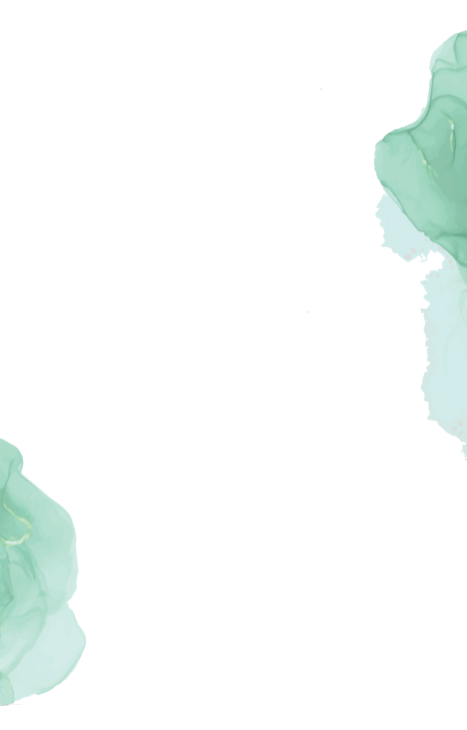
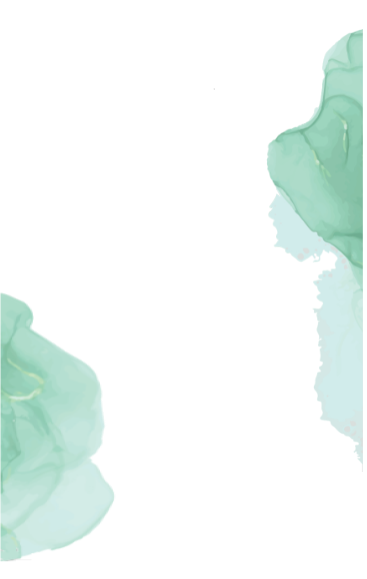
ultima actualizacion

diff --git a/style.css b/style.css
@@ -1,6 +1,6 @@
 :root {
     --color-principal:#F7F7F7;
-    --color-secundario:#BBE1D2;
+    --color-secundario:#8FC6AE;
     --color-terciario:#c0d6c0;
     --font-principal:'Sacramento', cursive;
     --font-secundaria:'Nunito', sans-serif;
@@ -42,7 +42,7 @@ header {
     background-position: center;
     background-size: cover;
     text-align: center;
-    padding: 140px 80px ;
+    padding: 140px 90px ;
     animation-name: texto;
     animation-duration: 5s;
 }
@@ -66,16 +66,16 @@ header {
     font-size: 16px;
 }
 .boton {
-   border: 1px solid var(--color-secundario);
-   background-color: var(--color-secundario);
+   border: 1px solid var(--color-terciario);
+   background-color: var(--color-terciario);
    color: var(--color-principal);
    padding: 10px 30PX;
    text-decoration: none;
 }
 .boton:hover {
-    color: var(--color-secundario);
+    color: var(--color-terciario);
     background-color: var(--color-principal);
-    border: 1px solid var(--color-secundario);
+    border: 1px solid var(--color-terciario);
     padding: 10px 30PX;
     text-align: center;
     text-decoration: none;
@@ -90,7 +90,7 @@ h1 {
 }
 
 header p {
-    color: var(--color-terciario);
+    color: var(--color-secundario);
     font-family: var(--font-secundaria);
 }
 
@@ -138,7 +138,7 @@ header p {
     text-align: center;
     padding: 40px; 
     background-image: url(icon/backf.png);
-    background-position: top;
+    background-position: center;
     background-size: cover;
     background-repeat: no-repeat;
 }
@@ -232,9 +232,9 @@ header p {
     width: 100%;
     height: 80vh;
     background-color: var(--color-secundario);
-    background-image: url(background/background3.png);
-    background-position: bottom;
-    background-size: contain;
+    background-image: url(icon/bgflores.png);
+    background-position: center;
+    background-size: cover;
     background-repeat: no-repeat;
 }
 
@@ -337,7 +337,7 @@ footer {
     width: 100%;
     height: auto;
     margin: 0;
-    background-color: var(--color-terciario);
+    background-color: var(--color-secundario);
     color: var(--color-principal);
     padding: 40px;
 }
@@ -369,6 +369,11 @@ footer .contenido{
     background-position: top;
     background-size: cover;
     background-repeat: no-repeat;
+    
+
+}
+.lovestory .poema {
+    font-size: 20px;
 }
 .lovestory .lovestory-text2 {
     padding: 60px 40px;
@@ -399,6 +404,12 @@ footer .contenido{
         flex-direction: column;
 
     }
+    .regalos {
+        background-image: url(./icon/Copiadebgflores.png);
+        background-size:cover;
+
+    }
+    
     
     
 }

diff --git a/index.html b/index.html
@@ -124,7 +124,7 @@
         
       <div class="regalos">
          <div class="regalos-card">
-          <img class="icono" src="icon/icons8-tarjeta-de-regalo-100.png" alt="iconocard">
+          <img class="icono" src="icon/icons8-tarjeta-de-regalo-100.svg" alt="iconocard">
           <p>Tu presencia es lo mas importante pero si deseas hacernos un regalo ayudanos con la luna de miel.</p>
           <br>
           <p>CBU</p>
@@ -136,7 +136,7 @@
               <button id="copiador"><svg xmlns="http://www.w3.org/2000/svg" x="0px" y="0px"
                 width="24" height="24"
                 viewBox="0 0 172 172"
-                style=" fill:#000000;"><g fill="none" fill-rule="nonzero" stroke="none" stroke-width="1" stroke-linecap="butt" stroke-linejoin="miter" stroke-miterlimit="10" stroke-dasharray="" stroke-dashoffset="0" font-family="none" font-weight="none" font-size="none" text-anchor="none" style="mix-blend-mode: normal"><path d="M0,172v-172h172v172z" fill="none"></path><g fill="#78B399"><path d="M28.66667,14.33333c-7.91917,0 -14.33333,6.41417 -14.33333,14.33333v100.33333h14.33333v-100.33333h100.33333v-14.33333zM57.33333,43c-7.91917,0 -14.33333,6.41417 -14.33333,14.33333v86c0,7.91917 6.41417,14.33333 14.33333,14.33333h86c7.91917,0 14.33333,-6.41417 14.33333,-14.33333v-86c0,-7.91917 -6.41417,-14.33333 -14.33333,-14.33333zM57.33333,57.33333h86v86h-86z"></path></g></g></svg></button>
+                style=" fill:#000000;"><g fill="none" fill-rule="nonzero" stroke="none" stroke-width="1" stroke-linecap="butt" stroke-linejoin="miter" stroke-miterlimit="10" stroke-dasharray="" stroke-dashoffset="0" font-family="none" font-weight="none" font-size="none" text-anchor="none" style="mix-blend-mode: normal"><path d="M0,172v-172h172v172z" fill="none"></path><g fill="#8FC6AE"><path d="M28.66667,14.33333c-7.91917,0 -14.33333,6.41417 -14.33333,14.33333v100.33333h14.33333v-100.33333h100.33333v-14.33333zM57.33333,43c-7.91917,0 -14.33333,6.41417 -14.33333,14.33333v86c0,7.91917 6.41417,14.33333 14.33333,14.33333h86c7.91917,0 14.33333,-6.41417 14.33333,-14.33333v-86c0,-7.91917 -6.41417,-14.33333 -14.33333,-14.33333zM57.33333,57.33333h86v86h-86z"></path></g></g></svg></button>
             </div>
         </div>
       </div>
@@ -145,7 +145,7 @@
       <div class="lovestory-img2"></div>
       <div class="lovestory-text2">
           
-          <p>
+          <p class="poema">
 
 Hay sueños buenos, <br>
 

diff --git a/vermas.css b/vermas.css
@@ -1,7 +1,7 @@
 :root {
     --color-principal:#F7F7F7;
-    --color-secundario:#78B399;
-    --color-terciario:#5C7C59;
+    --color-secundario:#8FC6AE;
+    --color-terciario:#c0d6c0;
     --font-principal:'Sacramento', cursive;
     --font-secundaria:'Nunito', sans-serif;
 }
@@ -26,7 +26,7 @@ main {
     height: 90vh;
     display: grid;
     grid-template-columns: 1fr 1fr;
-    background-image: url(./background/background1.png);
+    background-image: url(icon/bgflores.png);
     padding: 60px;
 }
 main .text {
@@ -54,6 +54,7 @@ h1 {
     padding: 10px 30PX;
     text-decoration: none;
     text-align: center;
+    margin-bottom: 10px;
 
  }
  .boton:hover {

diff --git a/vermas.html b/vermas.html
@@ -22,6 +22,7 @@
             <h1>Parroquia San Antonio de Padua</h1>
             <p>Lorem ipsum dolor sit amet consectetur adipisicing elit. In adipisci repudiandae nam! Omnis ipsam laudantium rem recusandae ratione distinctio, repellendus quidem animi, nihil odit, eaque quae tempore repudiandae iure placeat!</p>
             <a class="boton" target="_blank"  href="https://calendar.google.com/event?action=TEMPLATE&tmeid=MDVlZGUyMWdoMWlqNDExaTA4MDZsNWU5NGMgaW52aXRhY2lvbmVzd2ViLmluZm9AbQ&tmsrc=invitacionesweb.info%40gmail.com">AGENDAR EVENTO</a>
+            <a class="boton" href="index.html">VOLVER</a>
 
         </div>
         <div class="mapa">

diff --git a/vermas2.html b/vermas2.html
@@ -22,6 +22,7 @@
             <h1>Alto Belgrano - Mendoza</h1>
             <p>Lorem ipsum dolor sit amet consectetur adipisicing elit. In adipisci repudiandae nam! Omnis ipsam laudantium rem recusandae ratione distinctio, repellendus quidem animi, nihil odit, eaque quae tempore repudiandae iure placeat!</p>
             <a class="boton" target="_blank"  href="https://calendar.google.com/event?action=TEMPLATE&tmeid=MWQxM292YnQxbDlvaXZrMnQ2YzI5N2lqOXEgaW52aXRhY2lvbmVzd2ViLmluZm9AbQ&tmsrc=invitacionesweb.info%40gmail.com">AGENDAR EVENTO</a>
+            <a class="boton" href="index.html">VOLVER</a>
 
         </div>
         <div class="mapa">
